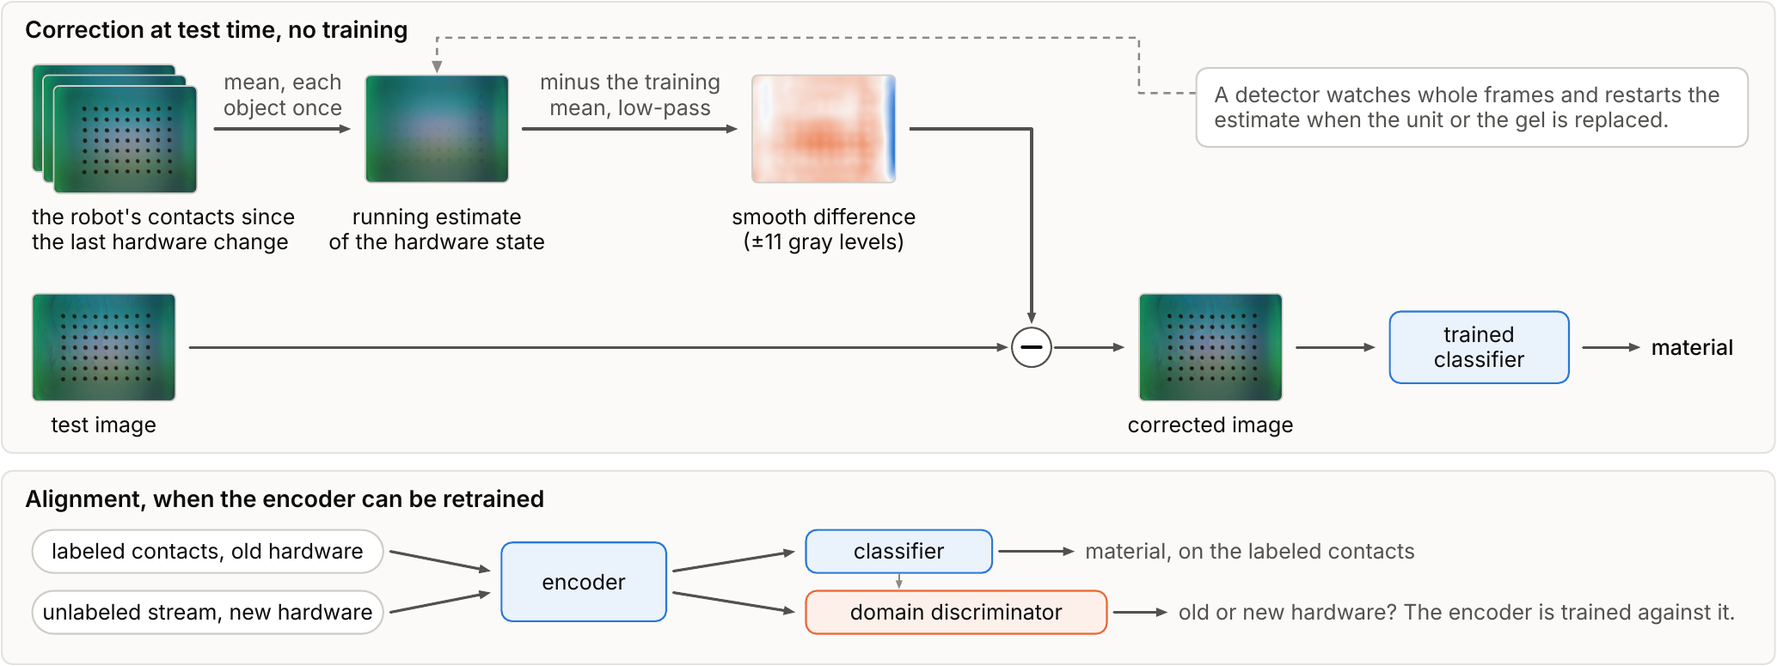
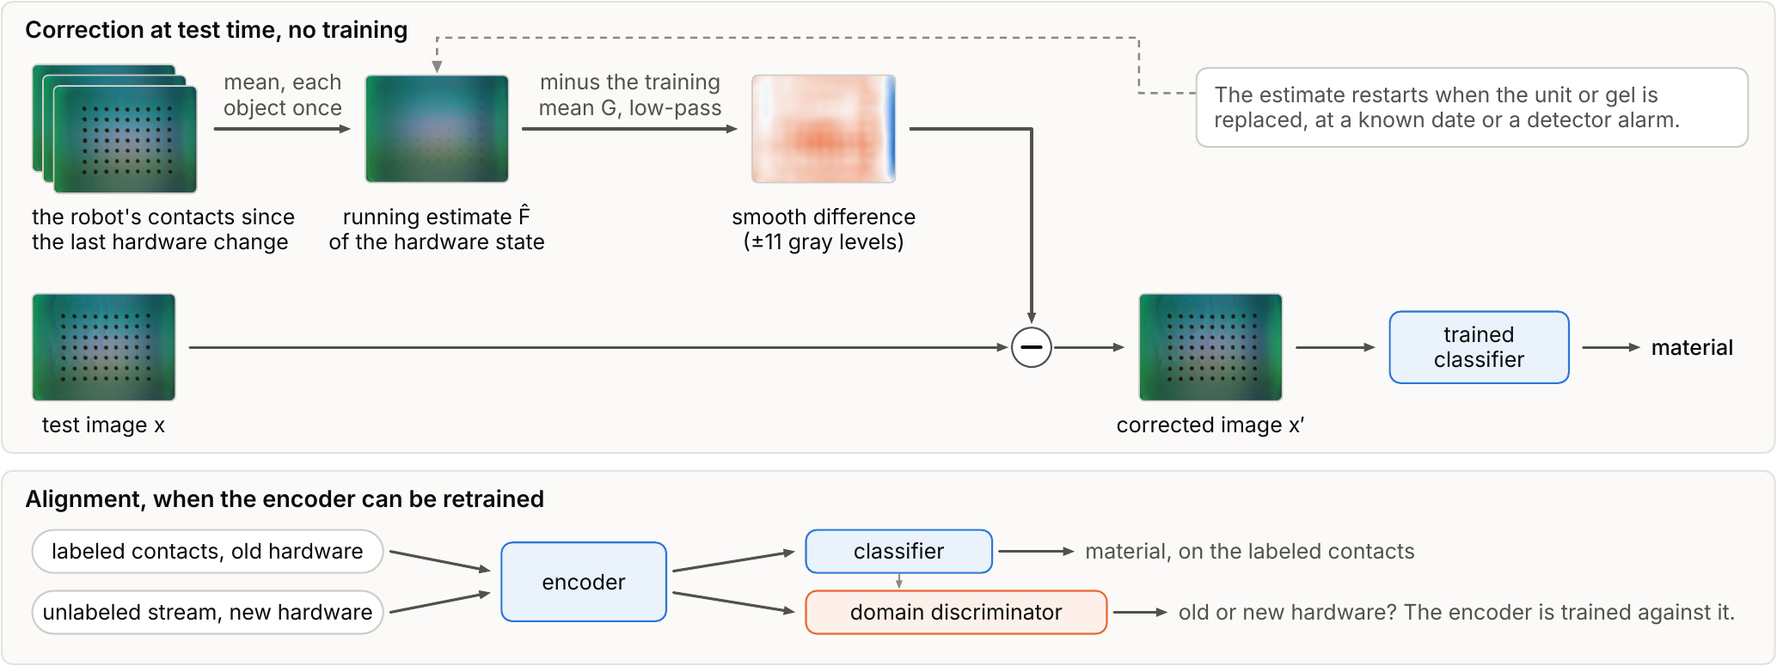
Section 4 rebuilt around the state estimate; the overview figure moves into the paper
The method now follows from the three properties measured in Section 3: the
state is shared across objects (estimate it by averaging the robot's contacts),
persists within a configuration (one estimate per configuration, restarted at
changes), and has a smooth and a fine component (subtract the smooth one, align
features for the rest). New: subsections 4.1-4.4, the image model with its smooth
and fine split, three stated assumptions, the estimator and correction as
equations, and a short derivation of why averaging isolates the state (state
difference plus an object residue that shrinks with objects and sits at fine
scales). The detector is reduced to a restart paragraph, with its rule in the
supplement. Alignment states that any feature alignment fits the step (DANN
within a point) and that it runs once per change (about 17 min for the ResNet-50).
The advisor's sentences are kept. Section 5.5 becomes "The estimate in practice"
(objects needed, cost of a missed restart, detector alarms). The overview figure
(Figure 5) leaves the supplement, with labels in the new notation. Section 2 uses
"image correction" instead of the old "tactile reading".

diff --git a/sec/4_method.tex b/sec/4_method.tex
@@ -1,24 +1,54 @@
-\section{Correcting for the hardware state}
+\section{Estimating and removing the hardware state}
 \label{sec:method}
 \label{sec:tracker}
 
-The persistence of the hardware state suggests that it can be estimated from contacts with different objects. We use this estimate to correct the smooth component of sensor appearance without retraining, and optionally align the encoder using the same unlabeled contacts to address remaining hardware differences.
+\begin{figure*}[t]
+  \centering
+  \includegraphics[width=\linewidth]{fig/fig_method_overview.pdf}
+  \caption{\textbf{Method overview.} Top: at test time the robot averages its contacts since the last hardware change into a running estimate $\hat F$ of the state, counting each object once (\cref{eq:estimate}), and subtracts the smooth part of the estimate's difference from the training mean $G$ from every test image (\cref{eq:correction}). The estimate restarts when the unit or the gel is replaced. Bottom: when the encoder can be retrained, the same unlabeled contacts serve as the target domain of CDAN+E. The images are whole frames from the fold that holds out campaign D and serve as an illustration, because the experiments use 192-px crops. The test image comes from the fifth session on S2, and the estimate holds the four S2 sessions before it. As in the experiments, the printed markers do not enter the means.}
+  \label{fig:overview}
+\end{figure*}
 
-\paragraph{Setting.}
-A classifier is trained on labeled contacts from some hardware configurations, then the unit or gel is replaced and the robot keeps working. It has no labels for its new contacts, no calibration object and often no bare-gel frame, only its own stream of contacts under the new state. We write a contact image at frame position $p$, on hardware configuration $h$, as $x(p) = F_h(p) + r(p)$: the state of that configuration plus the touch. \Cref{sec:signature} showed that $F_h$ is shared by every object on that hardware and is replaced with the unit or gel.
+The persistence of the hardware state suggests that it can be estimated from contacts with different objects. We use this estimate to correct the smooth component of sensor appearance without retraining, and optionally align the encoder using the same unlabeled contacts to address remaining hardware differences (\cref{fig:overview}).
+Each part of the method follows from a property of the state measured in \cref{sec:signature}. The state is shared by every object touched on the same hardware, so the robot can estimate it by averaging its own contacts over the objects it touches, without labels, a calibration object or a bare-gel frame. The state persists within a hardware configuration and changes when the unit or the gel is replaced, so the robot keeps one estimate per configuration and restarts it at each change. The state has two components, a smooth illumination field that separates our two units and a fine pattern at the same spatial scales as the texture of the materials. The method therefore subtracts only the smooth component from the images. When the encoder can be retrained, feature alignment addresses the fine pattern and any remaining differences.
 
-\paragraph{Image correction.}
-The robot estimates the current hardware state by averaging the mean contact frames of sessions recorded since the last hardware change. Each completed session contributes equally, so objects with more recorded frames do not dominate the estimate. We also include the training mean $G$, computed by averaging the training sessions' mean contact frames, with the weight of one session.
-The estimate is causal: each session is processed using only previously completed sessions. Immediately after a hardware change, no earlier sessions are available, so the estimate equals $G$ and the correction leaves the images unchanged. This applies to \XpFirstN\ of the 55 test sessions in \cref{sec:exp}. Averaging across objects reduces their individual contact imprints while retaining image structure shared by the hardware. This follows the principle of retrospective flat-field estimation in microscopy~\cite{singh2014illumination,peng2017basic}, applied here to a robot's contact stream.
+\subsection{Setting and image model}
+A classifier is trained on labeled contacts from some hardware configurations, then the unit or gel is replaced and the robot keeps working. It has no labels for its new contacts, no calibration object and often no bare-gel frame, only its own stream of contacts under the new state. We write a contact image at frame position $p$, on hardware configuration $h$, as $x(p) = F_h(p) + r(p)$: the state of that configuration plus the touch. \Cref{sec:signature} showed that $F_h$ is shared by every object on that hardware and is replaced with the unit or gel. With a Gaussian low-pass filter $L_\sigma$, we split the state into its smooth component $L_\sigma F_h$, the illumination field, and its fine component $F_h - L_\sigma F_h$, which carries the gel's pattern.
 
-We correct each image by subtracting the smooth component of the difference between the estimated state and $G$, obtained with a Gaussian low-pass filter of $\sigma = 33$\,px (0.37\,mm). We retain the fine-scale component because an estimate based on few objects can still contain their texture. The smooth illumination field can be estimated from fewer objects and captures much of the difference between hardware states; our two units differ by \LpDistSoneStwo\ gray levels in this component.
-This correction requires no labels, additional training, or bare-gel frames. It operates on the inputs to an existing classifier and can also be combined with the adaptation methods in \cref{sec:baselines}. By default, we correct only test images; training images and images supplied for feature alignment remain as recorded. Row h of \cref{tab:ablation} additionally corrects the training images. In the fold holding out campaign D, the alignment stream contains configurations S2 and S3, which are treated as a single target domain.
+The method rests on three assumptions. First, the state adds to the image. This holds well enough for our two units, but not for SITR's Minis, which also differ in field of view and contrast (\cref{sec:second}). Second, the state is nearly constant within a configuration. Its smooth component varies by about one gray level between sessions, against \LpDistSoneStwo\ between the two units (\cref{sec:signature}). Third, the robot touches several different objects under each configuration, because the estimate separates the state from the touch only by averaging over objects (\cref{sec:practice,sec:discussion}).
 
-\paragraph{Dating the changes.}
-The state estimate must be reset after a hardware change, which may occur without an explicit notification. We detect these changes from the whole frames already recorded by the robot. At each episode, we compare the mean frame of the most recent $K\!=\!8$ episodes with that of the preceding $W\!=\!30$ episodes using two statistics: the correlation between their fine-scale bands (190--370\,\si{\micro\metre}, excluding pixels within 60\,px of a marker), and the mean absolute difference between their illumination fields, extracted with a Gaussian filter of $\sigma\!=\!33$\,px.
-A hardware change should reduce the fine-band correlation and increase the illumination difference. Neither statistic is sufficient alone: strongly textured materials can lower correlation without a hardware change, and illumination varies slightly between sessions. We therefore declare a change only when the correlation falls below its threshold and the illumination difference exceeds its threshold for $m\!=\!5$ consecutive episodes. We set these thresholds using recordings from the first training hardware configuration: the 10th percentile of correlation and the 95th percentile of illumination difference. \Cref{sec:trackerexp} evaluates the detector.
+\subsection{Estimating the state from the robot's contacts}
+\label{sec:estimate}
+The robot estimates the current hardware state by averaging the mean contact frames of sessions recorded since the last hardware change. Each completed session contributes equally, so objects with more recorded frames do not dominate the estimate. We also include the training mean $G$, computed by averaging the training sessions' mean contact frames, with the weight of one session. With $M_1, \dots, M_n$ the mean contact frames of the $n$ sessions completed since the change, the estimate is
+\begin{equation}
+  \hat F = \frac{1}{n+1}\Big(G + \sum_{s=1}^{n} M_s\Big).
+  \label{eq:estimate}
+\end{equation}
+The estimate is causal: each session is processed using only previously completed sessions. Immediately after a hardware change, no earlier sessions are available, so the estimate equals $G$ and the correction leaves the images unchanged. This applies to \XpFirstN\ of the 55 test sessions in \cref{sec:exp}.
 
-\paragraph{Aligning the encoder with the robot's own touches.}
-The image correction removes smooth, additive differences in sensor appearance, but leaves the fine hardware pattern intact. Sensors can also differ in field of view and contrast, which this correction cannot remove (\cref{sec:second}). To address these remaining differences, we retrain the encoder using labeled source images and the robot's unlabeled contacts from the new hardware as the target domain.
+\paragraph{Why averaging isolates the state.}
+Averaging across objects reduces their individual contact imprints while retaining image structure shared by the hardware. To see what remains, we write each session's mean as the state plus the mean imprint of its object, $M_s = F_h + m_s$, and the training mean as $G = \bar F + \bar m$, the average state and imprint of the training sessions. \Cref{eq:estimate} then gives
+\begin{equation}
+  \hat F - G = \frac{n}{n+1}\Big[\big(F_h - \bar F\big) + \big(\bar m_n - \bar m\big)\Big],
+  \label{eq:residue}
+\end{equation}
+where $\bar m_n$ is the mean imprint of the $n$ new objects. The first term is the change of state that the correction should remove. The second is an object residue, the difference between the average imprint of the new objects and that of the training objects. Every session follows the same grasp and strokes, so the two averages come close as objects are added, and they do so fastest at coarse scales. At fine scales each object leaves its own texture, so the residue of a few objects remains large there. The factor $n/(n+1)$ starts the correction at zero after a change and lets it grow as objects accumulate. This follows the principle of retrospective flat-field estimation in microscopy~\cite{singh2014illumination,peng2017basic}, applied here to a robot's contact stream.
+
+\paragraph{Restarting at hardware changes.}
+The state estimate must be reset after a hardware change, which may occur without an explicit notification. A robot may know the date of a change from its maintenance record. Otherwise, we detect these changes from the whole frames already recorded by the robot. At each episode, a detector compares the mean frame of the latest episodes with that of the episodes before them, in the two components of the state. A hardware change should reduce the correlation between their fine bands and increase the difference between their illumination fields. Neither statistic is sufficient alone: strongly textured materials can lower correlation without a hardware change, and illumination varies slightly between sessions. We therefore declare a change only when both pass thresholds, set on the first training configuration, for five consecutive episodes (supplement). Our main results restart at the true dates of the changes, and \cref{sec:practice} shows that restarting at the detector's alarms changes little.
+
+\subsection{Image correction}
+We correct each image by subtracting the smooth component of the difference between the estimated state and $G$, obtained with a Gaussian low-pass filter $L_\sigma$ of $\sigma = 33$\,px (0.37\,mm):
+\begin{equation}
+  x'(p) = x(p) - L_\sigma\big(\hat F - G\big)(p).
+  \label{eq:correction}
+\end{equation}
+By \cref{eq:residue}, the smooth component of $\hat F - G$ is mostly the change of illumination between the training hardware and the current one. We retain the fine-scale component because an estimate based on few objects can still contain their texture. The smooth illumination field can be estimated from fewer objects and captures much of the difference between hardware states; our two units differ by \LpDistSoneStwo\ gray levels in this component. The width of the filter balances the two terms of \cref{eq:residue}. A narrower filter subtracts more of the object residue, and a wider one removes less of the change of illumination. We set the width on one fold, and \cref{sec:ablation} reports the others.
+This correction requires no labels, additional training, or bare-gel frames. It operates on the inputs to an existing classifier and can also be combined with the adaptation methods in \cref{sec:baselines}. By default, we correct only test images; training images and images supplied for feature alignment remain as recorded. Row h of \cref{tab:ablation} additionally corrects the training images.
+
+\subsection{Aligning the encoder with the robot's own touches}
+The image correction removes smooth, additive differences in sensor appearance, but leaves the fine hardware pattern intact. Sensors can also differ in field of view and contrast, which this correction cannot remove (\cref{sec:second}). To address these remaining differences, we retrain the encoder using labeled source images and the robot's unlabeled contacts from the new hardware as the target domain. Alignment acts on the encoder's features rather than on the pixels, so it can reach differences that no subtracted image removes.
 We apply CDAN+E~\cite{long2018cdan} without modification. A domain discriminator learns to distinguish source from target samples, while the encoder learns features that preserve material information and make this distinction harder. The discriminator receives the outer product of the encoder features and the classifier's predictions, with predictions detached from the gradient computation. Products exceeding 4096 dimensions are randomly projected to 1024 dimensions. Each sample is weighted by $1 + e^{-H(\hat y)}$, giving greater weight to confident predictions.
 Training combines the classification cross-entropy on labeled source crops with the weighted domain-discrimination loss, using a domain-loss coefficient of one. Gradient reversal with a warm-start schedule makes the encoder oppose the discriminator. We follow the Transfer-Learning-Library implementation throughout.
+
+Any feature alignment can fill this step. With DANN~\cite{ganin2016dann} in place of CDAN+E the method loses less than a point (row e of \cref{tab:ablation}), and the correction improves each of the five adaptation methods in \cref{sec:baselines}. The encoder is retrained once per hardware change, on the contacts gathered since the change, with the training budget of \cref{sec:exp}. For the ResNet-50 this takes about 17 minutes on one NVIDIA RTX 4070 SUPER. In the fold holding out campaign D, the alignment stream contains configurations S2 and S3, which are treated as a single target domain. The full method classifies corrected test images with the aligned encoder.

diff --git a/sec/2_related.tex b/sec/2_related.tex
@@ -11,7 +11,7 @@ Existing tactile pipelines already account for sensor appearance in several ways
 Differences between acquisition systems become classification shortcuts when they correlate with labels~\cite{geirhos2020shortcut}. Examples include hospital-specific cues in chest radiographs~\cite{zech2018hospital}, acquisition differences in COVID datasets~\cite{degrave2021covid}, and dataset-specific appearance in natural images~\cite{torralba2011bias,liuhe2025}. Tactile datasets can create an analogous association when materials are recorded in separate sessions on different hardware configurations. Our contribution is to measure the hardware signature over time and test its effect on recognition, including controlled class--hardware associations in public data. This distinguishes a classifier's reliance on hardware from a general decline under distribution shift.
 
 \paragraph{Estimating acquisition effects from images.}
-Estimating a shared acquisition component from multiple images is well established. Microscopy estimates illumination fields by averaging images or fitting low-rank structure~\cite{singh2014illumination,peng2017basic}; infrared imaging estimates fixed-pattern noise~\cite{harris1999nuc}; and camera identification recovers sensor-specific signatures~\cite{lukas2006prnu}. Multi-site MRI similarly models scanner-dependent measurement effects~\cite{fortin2017combat}. We apply this principle to a robot's contact stream: observations of different surfaces provide a running estimate of the sensor's hardware state. The correction removes only its smooth component, since fine-scale averages can retain object texture as well as hardware structure. The estimate is restarted after detected hardware changes. The contribution is therefore a state-aware tactile reading grounded in measured hardware persistence, rather than a new general-purpose flat-field estimator.
+Estimating a shared acquisition component from multiple images is well established. Microscopy estimates illumination fields by averaging images or fitting low-rank structure~\cite{singh2014illumination,peng2017basic}; infrared imaging estimates fixed-pattern noise~\cite{harris1999nuc}; and camera identification recovers sensor-specific signatures~\cite{lukas2006prnu}. Multi-site MRI similarly models scanner-dependent measurement effects~\cite{fortin2017combat}. We apply this principle to a robot's contact stream: observations of different surfaces provide a running estimate of the sensor's hardware state. The correction removes only its smooth component, since fine-scale averages can retain object texture as well as hardware structure. The estimate is restarted after detected hardware changes. The contribution is therefore a state-aware image correction grounded in measured hardware persistence, rather than a new general-purpose flat-field estimator.
 
 \paragraph{Adaptation from a robot's contact stream.}
 Unsupervised domain adaptation uses labeled source data and unlabeled target observations to address distribution shift through feature alignment~\cite{ganin2016dann,long2018cdan}, class-confusion reduction~\cite{jin2020mcc}, or regularization~\cite{rangwani2022sdat,hoyer2023mic}. Test-time adaptation instead updates statistics or model parameters during inference~\cite{li2018adabn,wang2021tent,niu2023sar,lee2024deyo}, with dedicated methods addressing temporally correlated inputs~\cite{gong2022note,boudiaf2022lame,yuan2023rotta}. This distinction matters for tactile sensing: consecutive contacts may involve one material, so batch statistics can absorb class information rather than isolate hardware variation~\cite{burns2021bn}. Our correction explicitly estimates a persistent image component without updating the classifier. It is complementary to feature adaptation, for which we use the same contact stream as the target domain. Unlike FDA, which transfers low-frequency appearance into source training images~\cite{fda2020}, our correction adjusts test images relative to the estimated hardware state. We evaluate both correction alone and its addition to existing adaptation methods.

diff --git a/sec/5_experiments.tex b/sec/5_experiments.tex
@@ -141,7 +141,8 @@ Row d is transductive, because the stream already contains the touches it classi
 
 SITR's Minis see different parts of their gels and differ in contrast by a factor of \SmContrastRatio\ (supplement). Subtracting the mean image of the test Mini, in the full band, lets a frozen DINOv2 with an MLP head recover from \CfSitrRawOneCross\ to \CfSitrStreamOneCross\pct\ on the classes learned on the other Mini when one class is tied to the test Mini (\cref{fig:confound}). It leaves a CNN trained from scratch at about \SmStreamCross\pct\ (supplement), because that CNN also learns the field of view and the contrast, which no per-pixel correction removes. We tie four classes to the test Mini and train a CNN from scratch, with its unlabeled images as the stream (supplement). CDAN+E then raises the accuracy on the 16 classes learned on the other Mini from \XsJit\ to \XsCdan\pct. With only 5 of the 20 classes in the stream the gain shrinks by about half, so the stream must cover the robot's materials.
 
-\subsection{Dating the changes}
+\subsection{The estimate in practice}
+\label{sec:practice}
 \label{sec:trackerexp}
 
-Run over all \EpRecorded\ episodes in recording order, the detector raises \FrAlarms\ alarms: \FrUnitLatency\ episodes after the change of unit, \FrGelLatency\ after the gel replacement, and \FrFalseAlarms\ false ones. On streams spliced from our recordings and from three public datasets it detects \TeOursFramesDet\pct\ of the changes in ours and \TeSitrMiniDet\ to \TeTmnistDet\pct\ in the others (supplement). Restarting the estimate at its alarms instead of the true dates changes the full method's accuracy by \XdFullVarDetVsLp\ points (\XdFullVarDetVsLpLo\ to \XdFullVarDetVsLpHi).
+Two practical questions remain. How many objects does the estimate need, and how exactly must it restart? For the CNN trained from scratch on campaign D, an estimate built from the contacts of one other object gives \CvsSupObjOne\pct, two objects give \CvsSupObjTwo\pct, and all nineteen others give \CvsSupObjNineteen\pct\ (supplement). The smooth component therefore settles after about two objects, as \cref{eq:residue} suggests. A missed restart costs far more. An earlier version of the detector missed the change of unit, so the estimate for the September sessions still averaged objects from the first unit, and the CNN scored \SrcSupTrkAcc\pct\ on campaign D, against \SrcSupTrkDepAcc\pct\ with the estimate started in September. Run over all \EpRecorded\ episodes in recording order, the detector of \cref{sec:estimate} raises \FrAlarms\ alarms: \FrUnitLatency\ episodes after the change of unit, \FrGelLatency\ after the gel replacement, and \FrFalseAlarms\ false ones. Restarting the estimate at its alarms instead of the true dates changes the full method's accuracy by \XdFullVarDetVsLp\ points (\XdFullVarDetVsLpLo\ to \XdFullVarDetVsLpHi). On streams spliced from our recordings and from three public datasets, it detects \TeOursFramesDet\pct\ of the changes in ours and \TeSitrMiniDet\ to \TeTmnistDet\pct\ in the others (supplement).

diff --git a/sec/1_intro.tex b/sec/1_intro.tex
@@ -21,7 +21,7 @@ In June and July, unit 2 recorded only four of the 20 materials. For a classifie
 To test whether the hardware signature drives this bias, we introduce a controlled association between object class and sensor unit in SITR~\cite{sitr2025}, which records the same 20 objects with four GelSight Minis. We construct a training set in which one object appears only on the Mini used for testing, while the remaining objects appear only on another Mini. The classifier then assigns \CfSitrRawOneTop\pct\ of the test images to the single object associated with the test Mini, and accuracy on the remaining objects falls from \CfSitrRawZeroCross\ to \CfSitrRawOneCross\pct\ (\cref{sec:confound}).
 
 
-The remedy is to account for the state of the sensor, and a robot can do this with its own stream of contacts. At test time, the robot averages its contacts since the hardware last changed into a running estimate of the state and subtracts its smooth part from every image. A detector restarts the estimate when the unit or gel is replaced. This image correction needs no labels and no training, so it can be added to any classifier. If the encoder can be retrained, the same stream serves as the target domain of a conditional adversary~\cite{long2018cdan}, so that the encoder's features stop separating the old hardware from the new. This alignment also reaches the fine pattern, which the correction leaves in place.
+The remedy is to account for the state of the sensor, and a robot can do this with its own stream of contacts. At test time, the robot averages its contacts since the hardware last changed into a running estimate of the state and subtracts its smooth part from every image (\cref{fig:overview}). A detector restarts the estimate when the unit or gel is replaced. This image correction needs no labels and no training, so it can be added to any classifier. If the encoder can be retrained, the same stream serves as the target domain of a conditional adversary~\cite{long2018cdan}, so that the encoder's features stop separating the old hardware from the new. This alignment also reaches the fine pattern, which the correction leaves in place.
 
 We test on 55 sessions in which a material is touched with a different unit or gel than in training. On these sessions, the correction alone raises a ResNet-50 from \XpRecipeAcc\ to \XpReadAcc\pct, which matches the best of five published test-time adaptation methods, and it improves each of five published domain adaptation methods. With alignment it reaches \XpFullAcc\pct, and the gains hold for four encoders. The correction removes only an additive state. It lowers the accuracy on the eight sessions that cross only a gel, and on SITR's Minis, which also differ in field of view and contrast, a CNN trained from scratch needs alignment.
 

diff --git a/suppl.tex b/suppl.tex
@@ -18,12 +18,6 @@
 
 \begin{document}
 \maketitle
-\begin{figure*}[t]
-  \centering
-  \includegraphics[width=\linewidth]{fig/fig_method_overview.pdf}
-  \caption{\textbf{The method in one picture.} Top: at test time the robot averages the contacts it has made since the last change of hardware into a running estimate of the state, counting each object once, and subtracts the smooth part of the estimate's difference to the training mean from every test image (\cref{alg:tracker}). A detector restarts the estimate when the unit or the gel is replaced. Bottom: when the encoder can be retrained, the same unlabeled stream is the target domain of CDAN+E. The images are whole frames from the fold that holds out campaign D and serve as an illustration, because the experiments read 192-px crops. The test image comes from the fifth session on S2, and the estimate holds the four S2 sessions before it. As in the experiments, the printed markers do not enter the means.}
-  \label{fig:overview}
-\end{figure*}
 
 \section{Data and protocol}
 \paragraph{Recording.} A GelSight Mini (native 1640$\times$1232, \SI{11.3}{\micro\metre}/px, \SI{18.8}{fps}) sits on one finger of a two-finger parallel gripper carried by a 7-DoF Franka Emika Panda arm, and an ATI Nano17 on the other finger (host-timestamped at 130--190\,Hz). Target normal forces are 0.5--5\,N and speed commands 10--100\,mm/s (see Motion below). Campaigns: A, June 15--22 (15 sessions); B, July 6--8 (15); C, July 9--13 (5); D, September 22 to October 15 (20). Every session holds one material. \EpRecorded\ episodes were recorded and accepted. \EpNoCrops\ episodes of campaign D have no span of eight consecutive frames in contact inside the stroke window, so the material experiments use \EpCrops\ episodes (\EpTrainABC\ in A--C, \EpTestD\ in D). Hardware: unit 1 with gel 1 from June 15 to July 9 (S1), unit 2 with gel 2 from July 10 to October 9, 18:42 (S2), unit 2 with gel 3 from the cork session of October 9, 19:37 (S3). Campaign D also recorded bare-gel frames (a start frame and lubricant pre/post pairs) and, in seven sessions, a 3-s bare-gel lead-in before every grasp.
